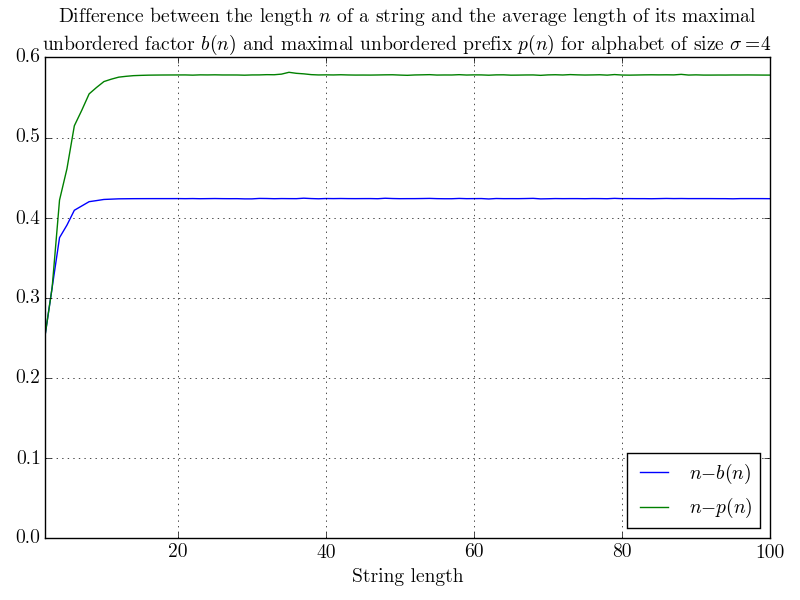
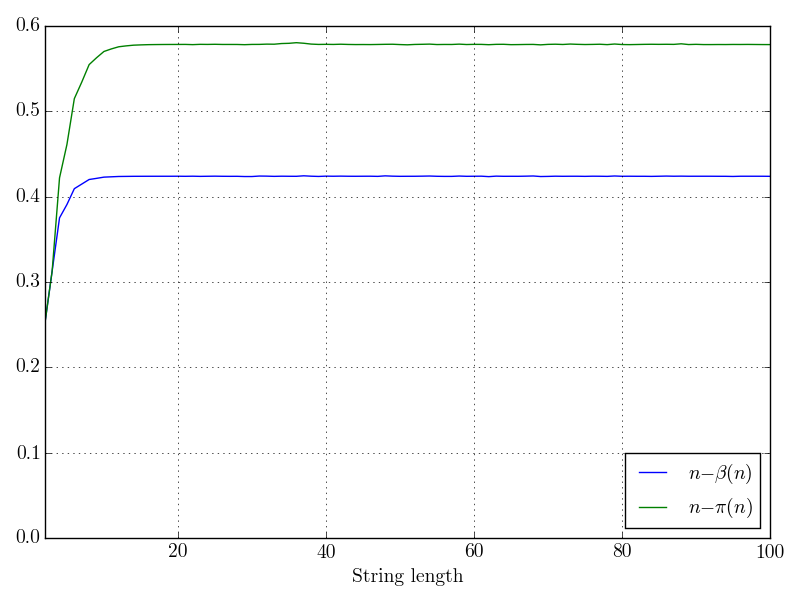
readme

diff --git a/src/py/results/Average difference/Between n and maximal unbordered factor and prefix/README.md b/src/py/results/Average difference/Between n and maximal unbordered factor and prefix/README.md
@@ -1,21 +1,23 @@
-#### Calculation results for the average difference between the length *n* of a string and the length of its maximal unbordered prefix
+#### Difference between the length n of a string and the average length of its maximal unbordered factor β(n) and the average length of its maximal unbordered prefix π(n) for 1 ≤ n ≤ 100 and alphabet of size σ = 2
 
-###### For the alphabet of size *σ* = 2:
+###### For the alphabet of size σ = 2:
 
-<div style="text-align: center;">
-    <img src ="https://github.com/avlonger/strlib/blob/master/src/py/results/Average%20difference/Between%20n%20and%20maximal%20unbordered%20factor%20and%20prefix/Alphabet_size_2.png" />
-</div>
-
-<p style="text-align: center;">
-Fig. 1: Difference between the length n of a string and the average length of its maximal unbordered factor β(n) and the average length of its maximal unbordered prefix π(n) for 1 ≤ n ≤ 100 and alphabet of size σ = 2
-</p>
+![](https://github.com/avlonger/strlib/blob/master/src/py/results/Average%20difference/Between%20n%20and%20maximal%20unbordered%20factor%20and%20prefix/Alphabet_size_2.png)
 
 
+###### For the alphabet of size σ = 3:
 
-###### For the alphabets of sizes *σ* = {3, 4, 5}:
+![](https://github.com/avlonger/strlib/blob/master/src/py/results/Average%20difference/Between%20n%20and%20maximal%20unbordered%20factor%20and%20prefix/Alphabet_size_3.png)
 
-![](https://github.com/avlonger/strlib/blob/master/src/py/test/Alphabet_size_3_4_5.png)
 
+###### For the alphabet of size σ = 4:
+
+![](https://github.com/avlonger/strlib/blob/master/src/py/results/Average%20difference/Between%20n%20and%20maximal%20unbordered%20factor%20and%20prefix/Alphabet_size_4.png)
+
+
+###### For the alphabet of size σ = 5:
+
+![](https://github.com/avlonger/strlib/blob/master/src/py/results/Average%20difference/Between%20n%20and%20maximal%20unbordered%20factor%20and%20prefix/Alphabet_size_4.png)
 
 ##### The average difference between the length of a string and the length of its maximal unbordered prefix
 
